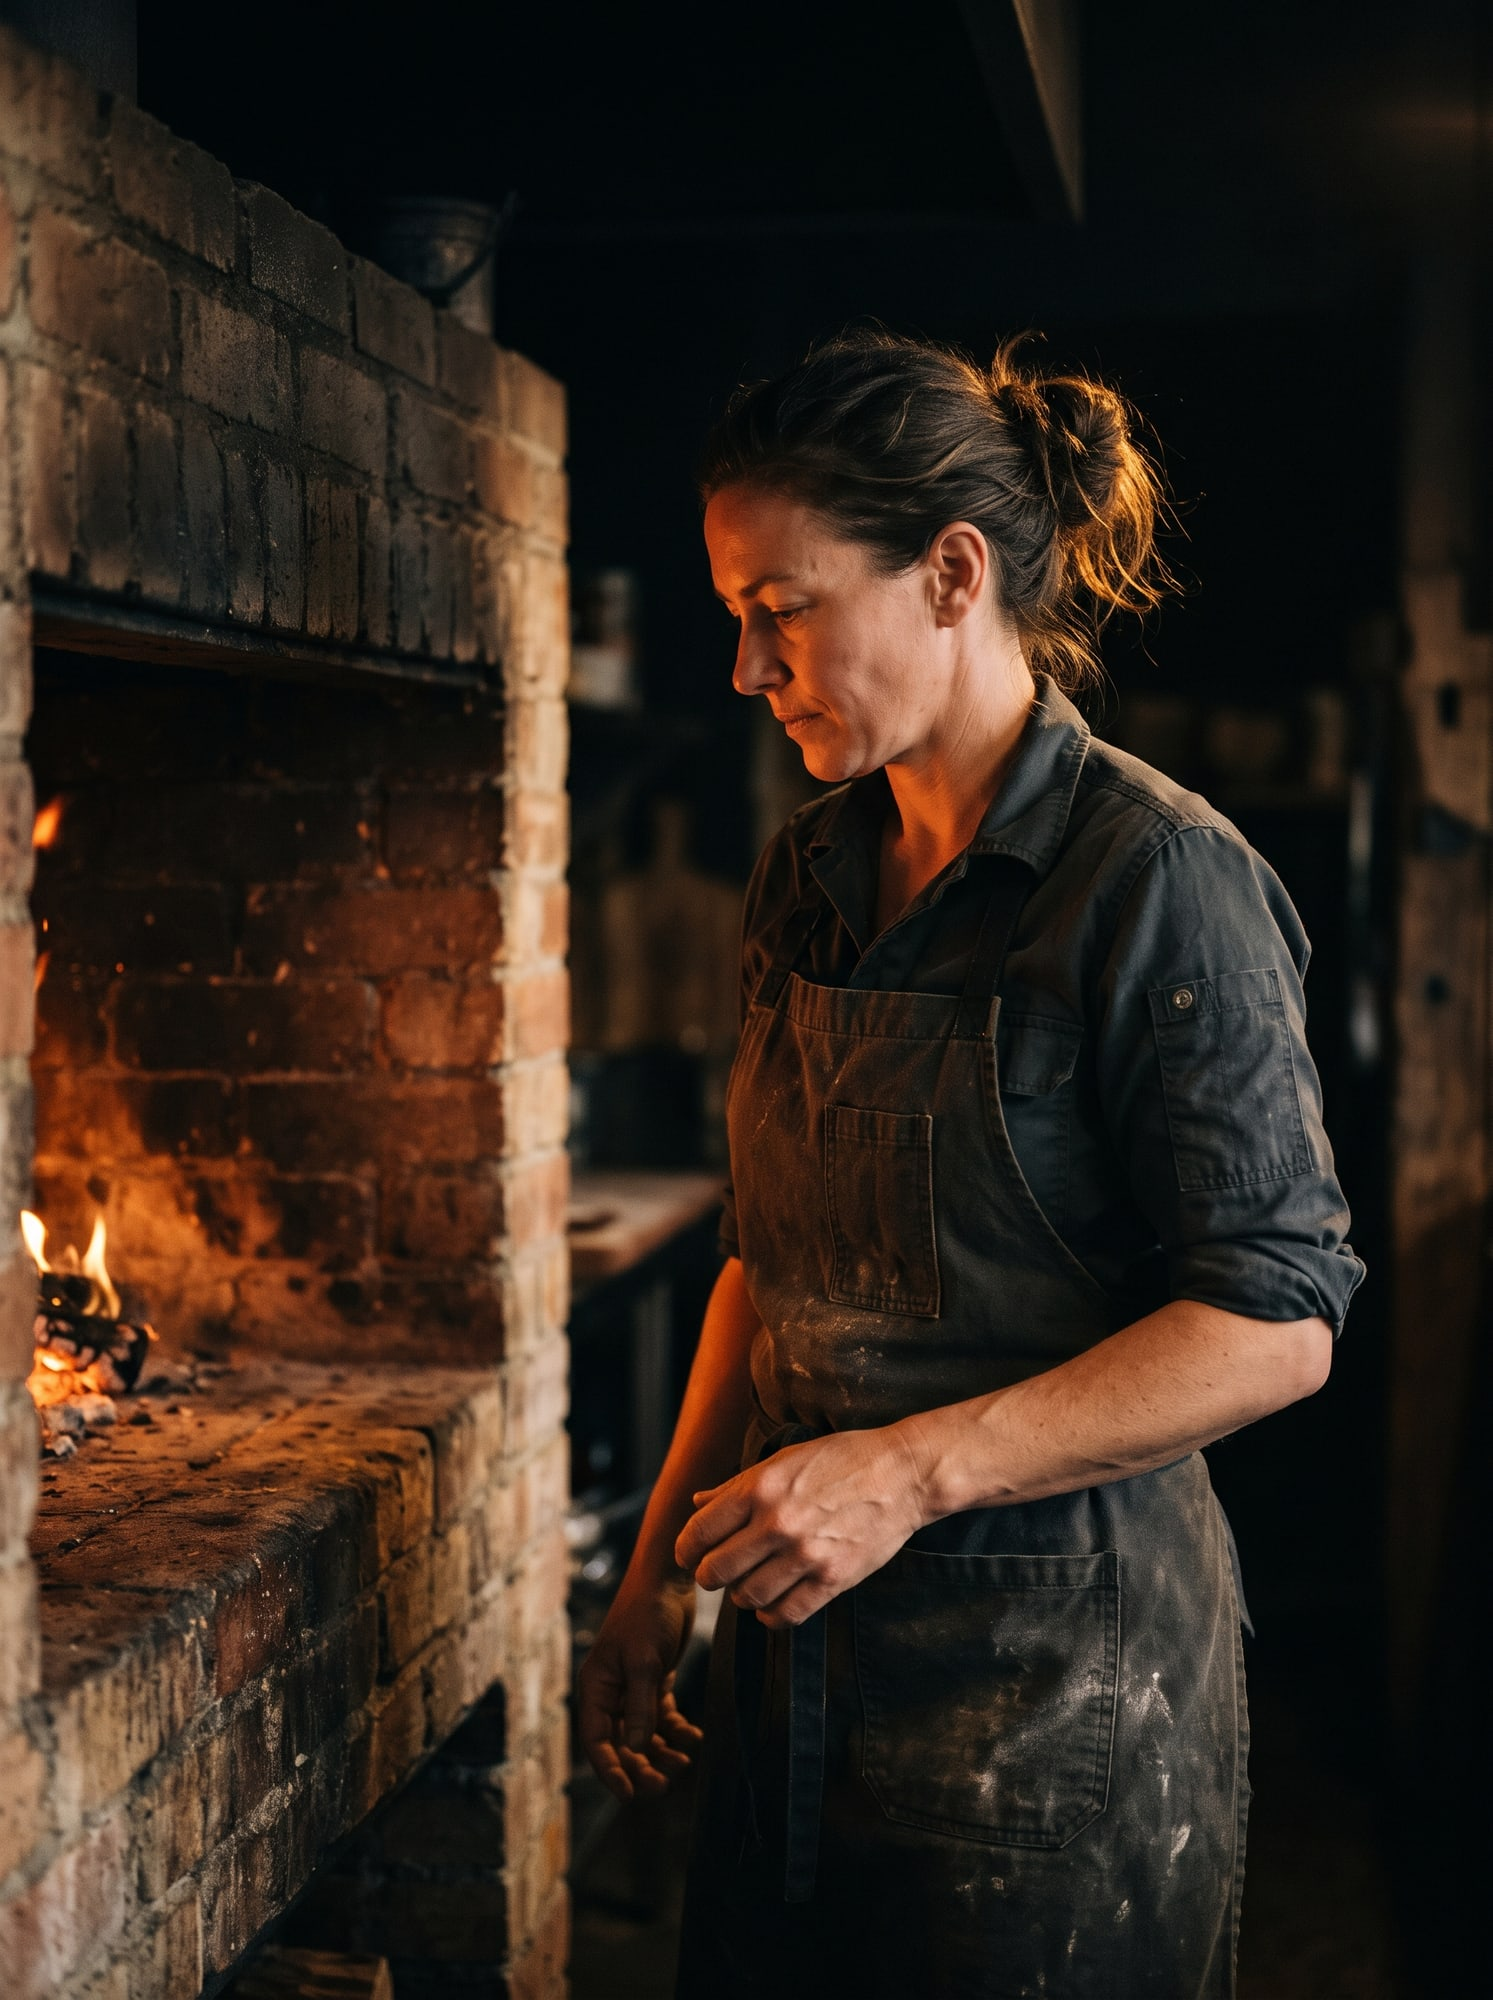
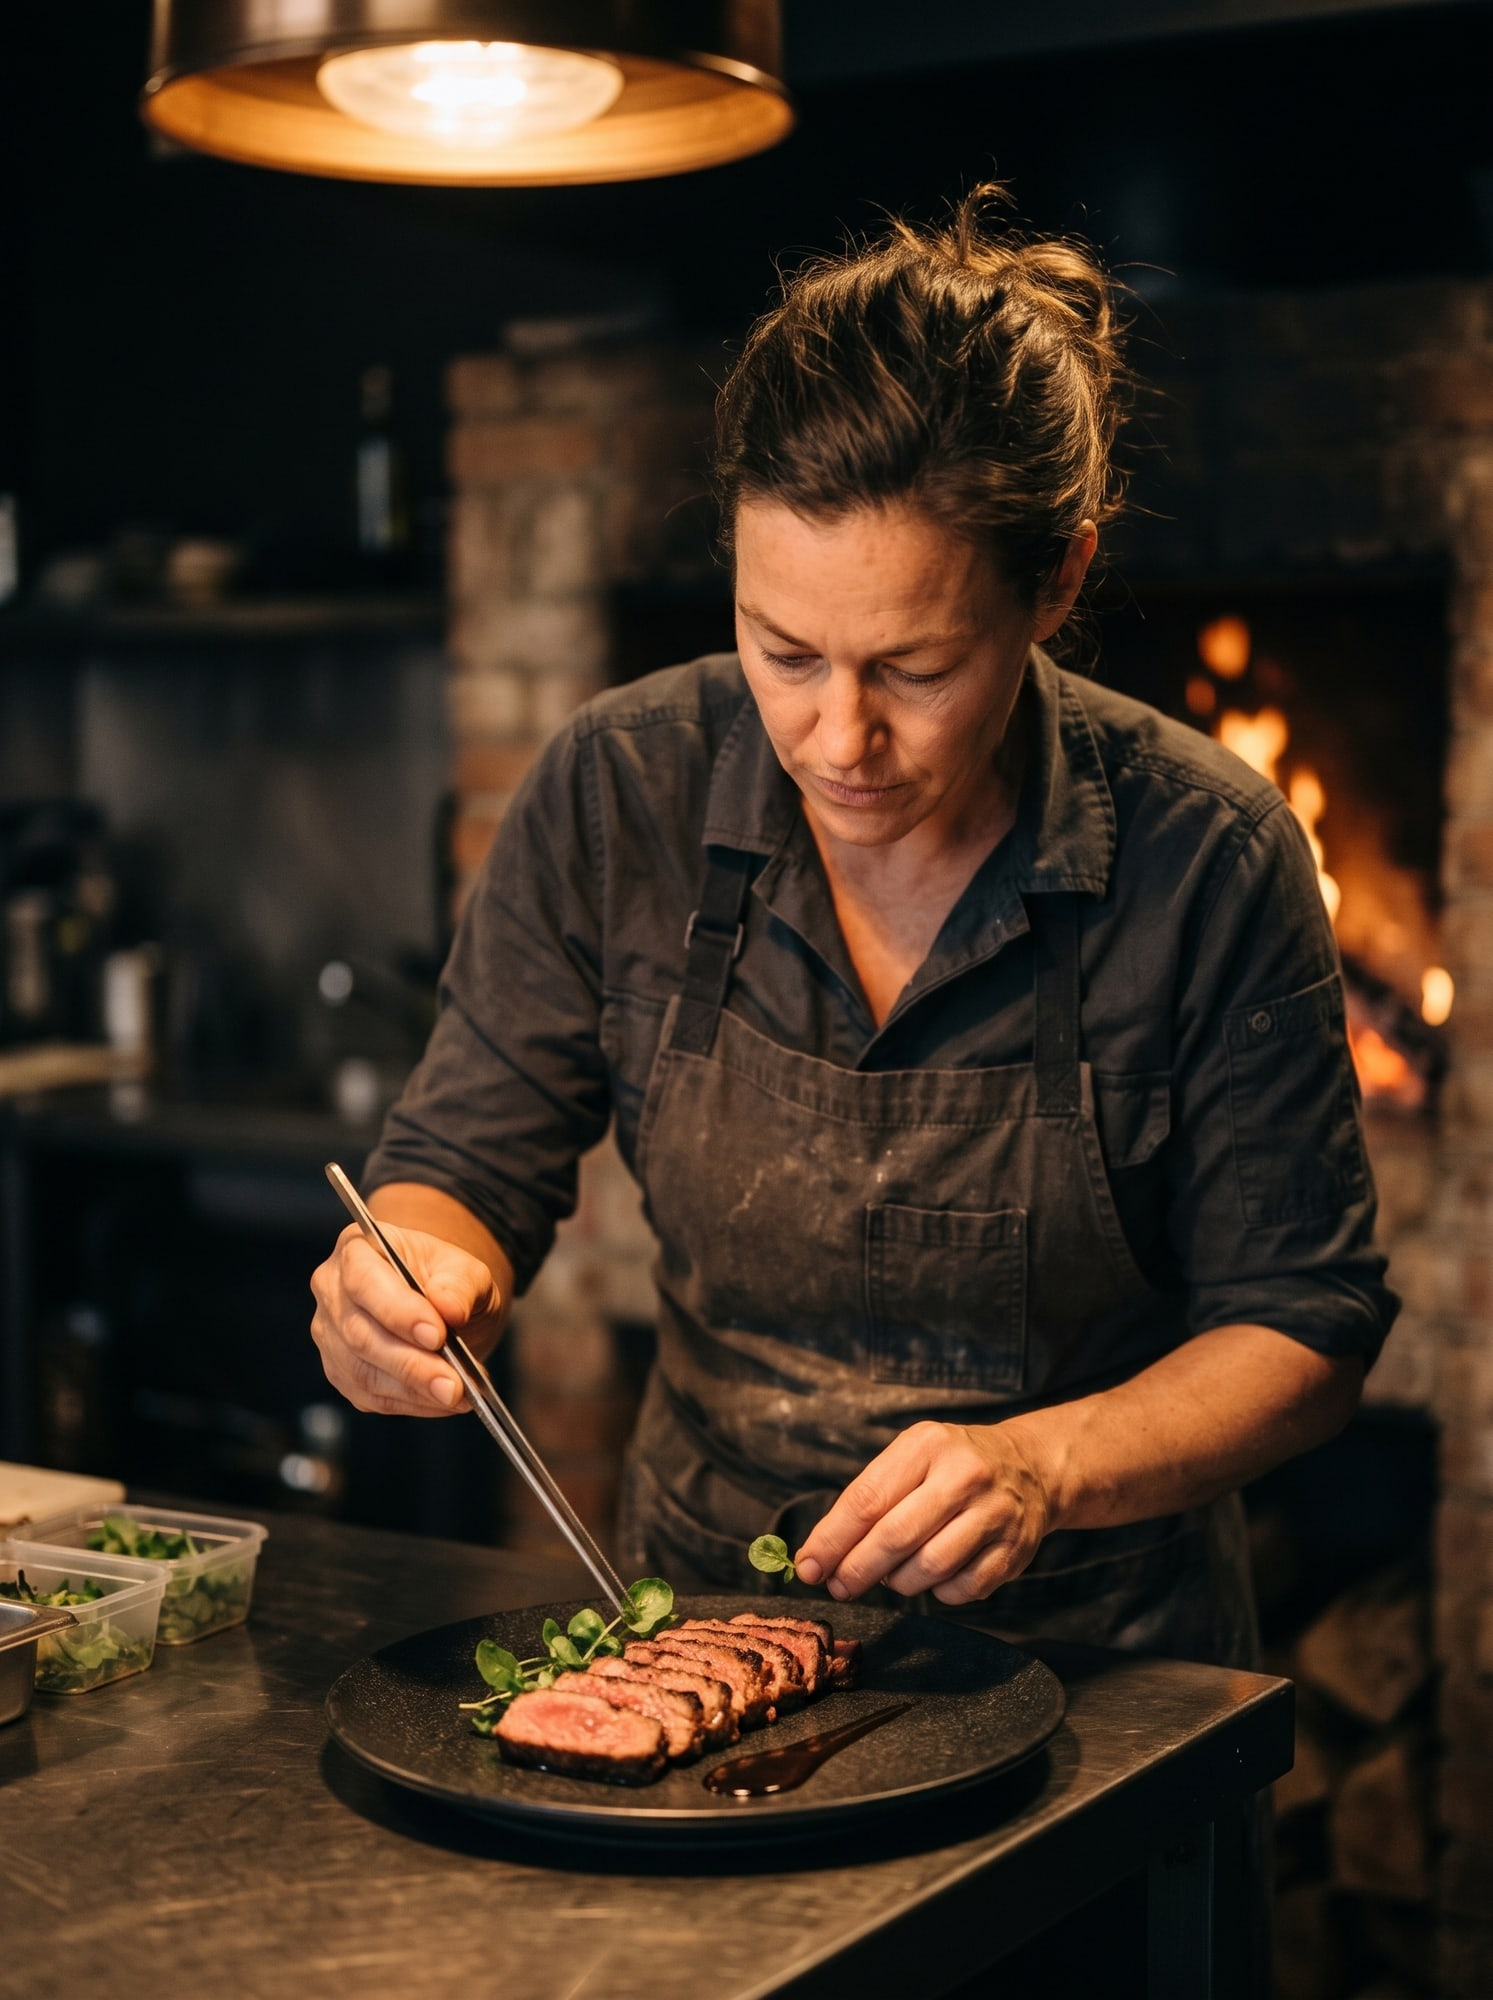
Replace chef portrait with her plating at the pass
The first portrait had no clear focus or task. The new one shows her
finishing a plate with tweezers, the hearth glowing behind her. The
alt text, shot list and Flow prompt are updated to match.

Claude-Session: https://claude.ai/code/session_01Jvdoxb3PYdNbyg5ngwymj3

diff --git a/src/data/photos.ts b/src/data/photos.ts
@@ -13,7 +13,7 @@ export const photoSlots = {
   hero: { ratio: 4 / 5, shot: 'A steak on the grate over glowing alder coals, flames licking up. Tight, moody, lit by the fire.' },
   'hearth-wide': { ratio: 16 / 9, shot: 'The open kitchen from the dining room: the hearth, cooks working, warm light, dark surroundings.' },
   'dry-age': { ratio: 3 / 2, shot: 'Inside the dry-aging room: rows of bone-in loins on racks, cool light.' },
-  chef: { ratio: 4 / 5, shot: 'Portrait of the chef at the hearth, sleeves rolled, looking at the fire rather than the camera.' },
+  chef: { ratio: 4 / 5, shot: 'The chef finishing a plate at the pass with tweezers, the hearth glowing behind her.' },
   building: { ratio: 3 / 2, shot: 'The 1890s brick building from the street at dusk, windows lit.' },
 
   'cut-ribeye': { ratio: 4 / 5, shot: 'Bone-in ribeye, sliced, on a dark plate. Overhead or 45°.' },

diff --git a/IMAGE-PROMPTS.md b/IMAGE-PROMPTS.md
@@ -37,7 +37,9 @@ Wide view across a dimly lit restaurant dining room toward an open kitchen with 
 Inside a small dry-aging room: rows of whole bone-in beef loins on stainless steel racks, deep red meat with a dark, aged outer crust, a wall of pink Himalayan salt bricks glowing softly behind them, cool dim light mixed with warm salt-wall glow. The racks run horizontally through the middle of the frame. Editorial restaurant photography, low-key lighting, warm amber highlights, deep near-black shadows, shallow depth of field, 50mm lens, subtle film grain, no text, no logos, no watermarks.
 
 ### `chef` (3:4)
-Portrait of a woman chef in her early forties standing beside a brick wood-fired hearth, dark canvas apron, sleeves rolled to the elbow, hair tied back, looking down into the fire rather than at the camera, her face and forearms lit warm orange by the flames, background falling to black. Calm, focused, confident. Editorial restaurant photography, low-key lighting from firelight only, warm amber highlights, deep near-black shadows, shallow depth of field, 50mm lens, subtle film grain, no text, no logos, no watermarks.
+Generate a first portrait of the chef with any prompt, then use it as the reference image with this one so the same woman appears:
+
+Use the woman in the reference image as the same person: same face, hair tied back, dark work shirt with sleeves rolled, dark canvas apron. She stands at a dark steel kitchen pass, leaning slightly over a matte black plate, using fine plating tweezers to place a single leaf of watercress on slices of dry-aged strip steak, with a precise line of glossy sauce beside them. Her eyes are fixed on the plate, calm and exacting, lips slightly pressed in concentration. Behind her and out of focus, a brick wood-fired hearth glows orange, lighting the edge of her face and shoulders from behind. A warm overhead pass lamp lights her hands and the plate from above. Her face sits in the upper-middle of the frame, and the top corners are dark and simple. Editorial restaurant photography, low-key lighting, warm amber highlights, deep near-black shadows, shallow depth of field, 50mm lens, subtle film grain, no text, no logos, no watermarks.
 
 ### `building` (16:9)
 A three-story 1890s red brick and sandstone commercial building on a quiet brick-paved street in a historic Pacific Northwest downtown at blue hour, arched ground-floor windows glowing warm amber from a candlelit restaurant inside, iron street lamps, wet pavement reflecting the light, light mist. Building centered. Architectural photography, moody, low-key, warm window light against a deep blue dusk, subtle film grain, no readable signs, no text, no logos, no watermarks.

diff --git a/PHOTOS.md b/PHOTOS.md
@@ -11,7 +11,7 @@ Save each photo in `src/assets/photos/`, named after its slot: for example `hero
 | `hero` | 4:5 portrait | Home, hero arch | A steak on the grate over glowing alder coals, flames licking up. Tight, moody, lit by the fire. |
 | `hearth-wide` | 16:9 landscape | Home, full-width band behind the chef quote | The open kitchen from the dining room: the hearth, cooks working, warm light, dark surroundings. |
 | `dry-age` | 3:2 landscape | Story, “The beef” (cropped 21:9) | Inside the dry-aging room: rows of bone-in loins on racks, cool light. |
-| `chef` | 4:5 portrait | Story, “The chef” arch | Portrait of the chef at the hearth, sleeves rolled, looking at the fire rather than the camera. |
+| `chef` | 4:5 portrait | Story, “The chef” arch | The chef finishing a plate at the pass with tweezers, the hearth glowing behind her. |
 | `building` | 3:2 landscape | Story timeline; Visit map cover (cropped 4:3) | The 1890s brick building from the street at dusk, windows lit. |
 | `cut-ribeye` | 4:5 portrait | Home cuts showcase (arch) | Bone-in ribeye, sliced, on a dark plate. Overhead or 45°. |
 | `cut-strip` | 4:5 portrait | Home cuts showcase (arch) | New York strip, sliced to show the crust and a medium-rare center. |
